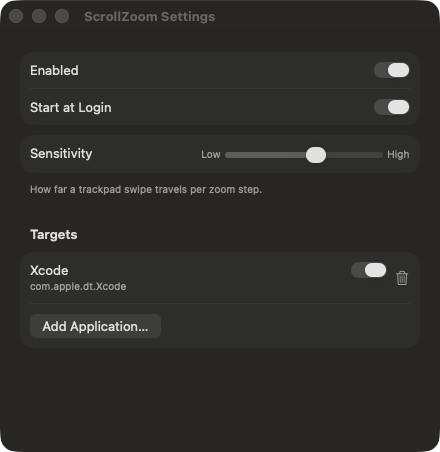
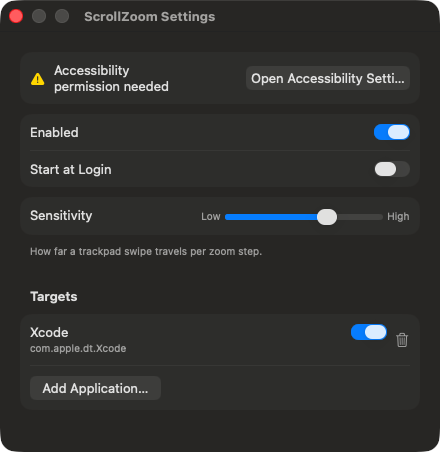
feat: route standard shortcuts and confirm destructive target removal

diff --git a/Sources/Preferences/SettingsView.swift b/Sources/Preferences/SettingsView.swift
@@ -5,6 +5,7 @@ import SwiftUI
 /// store the rest of the app already observes.
 struct SettingsView: View {
     @ObservedObject var model: SettingsViewModel
+    @State private var targetPendingRemoval: SettingsViewModel.Target?
 
     var body: some View {
         Form {
@@ -64,7 +65,7 @@ struct SettingsView: View {
                         }
                         Spacer()
                         Button(role: .destructive) {
-                            model.removeTarget(target)
+                            targetPendingRemoval = target
                         } label: {
                             Image(systemName: "trash")
                         }
@@ -73,6 +74,18 @@ struct SettingsView: View {
                                      comment: "Remove target tooltip"))
                     }
                 }
+
+                if model.targets.isEmpty {
+                    VStack(alignment: .leading, spacing: 2) {
+                        Text(String(localized: "No target apps",
+                                    comment: "Empty state title in the targets list"))
+                        Text(String(localized: "ScrollZoom stays idle until you add one.",
+                                    comment: "Empty state body in the targets list"))
+                            .font(.footnote)
+                            .foregroundStyle(.secondary)
+                    }
+                }
+
                 Button(String(localized: "Add Application…", comment: "Add target button")) {
                     model.presentAddTargetPanel()
                 }
@@ -88,6 +101,30 @@ struct SettingsView: View {
             }
         } message: {
             Text(model.lastErrorMessage ?? "")
+        }
+        .confirmationDialog(
+            targetPendingRemoval.map {
+                String(format: String(localized: "Remove %@ from the target list?",
+                                      comment: "Confirmation title when removing a target"),
+                       $0.displayName)
+            } ?? "",
+            isPresented: Binding(get: { targetPendingRemoval != nil },
+                                 set: { if !$0 { targetPendingRemoval = nil } }),
+            titleVisibility: .visible
+        ) {
+            Button(String(localized: "Remove", comment: "Destructive confirm button"),
+                   role: .destructive) {
+                if let target = targetPendingRemoval {
+                    model.removeTarget(target)
+                }
+                targetPendingRemoval = nil
+            }
+            Button(String(localized: "Cancel", comment: "Cancel button"), role: .cancel) {
+                targetPendingRemoval = nil
+            }
+        } message: {
+            Text(String(localized: "⌘ + scroll will stop zooming in that app. You can add it back at any time.",
+                        comment: "Confirmation body when removing a target"))
         }
     }
 }

diff --git a/Sources/UI/SZMainMenu.m b/Sources/UI/SZMainMenu.m
@@ -1,0 +1,50 @@
+#import "SZMainMenu.h"
+
+#import "SZStrings.h"
+
+@implementation SZMainMenu
+
++ (void)installWithSettingsAction:(SEL)settingsAction target:(id)target {
+    NSMenu *mainMenu = [[NSMenu alloc] init];
+
+    NSMenuItem *appItem = [[NSMenuItem alloc] init];
+    appItem.submenu = [self buildAppMenuWithSettingsAction:settingsAction target:target];
+    [mainMenu addItem:appItem];
+
+    NSMenuItem *windowItem = [[NSMenuItem alloc] init];
+    windowItem.submenu = [self buildWindowMenu];
+    [mainMenu addItem:windowItem];
+
+    NSApp.mainMenu = mainMenu;
+}
+
++ (NSMenu *)buildAppMenuWithSettingsAction:(SEL)settingsAction target:(id)target {
+    NSMenu *menu = [[NSMenu alloc] initWithTitle:SZLocalizedAppName()];
+
+    NSMenuItem *settingsItem = [[NSMenuItem alloc] initWithTitle:SZLocalizedMenuSettings()
+                                                          action:settingsAction
+                                                   keyEquivalent:@","];
+    settingsItem.target = target;
+    [menu addItem:settingsItem];
+
+    [menu addItem:[NSMenuItem separatorItem]];
+
+    NSMenuItem *quitItem = [[NSMenuItem alloc] initWithTitle:SZLocalizedMenuQuit()
+                                                      action:@selector(terminate:)
+                                               keyEquivalent:@"q"];
+    quitItem.target = NSApp;
+    [menu addItem:quitItem];
+
+    return menu;
+}
+
++ (NSMenu *)buildWindowMenu {
+    NSMenu *menu = [[NSMenu alloc] initWithTitle:SZLocalizedMenuWindow()];
+    // Target stays nil: ⌘W travels the responder chain to the key window.
+    [menu addItemWithTitle:SZLocalizedMenuClose()
+                    action:@selector(performClose:)
+             keyEquivalent:@"w"];
+    return menu;
+}
+
+@end

diff --git a/Sources/UI/SZMainMenu.h b/Sources/UI/SZMainMenu.h
@@ -1,0 +1,15 @@
+#import <Cocoa/Cocoa.h>
+
+NS_ASSUME_NONNULL_BEGIN
+
+/// An agent app has no main menu, so standard key equivalents (⌘, for
+/// Settings, ⌘W to close a window, ⌘Q to quit) never reach anything. This
+/// installs a minimal, never-displayed main menu purely to route them.
+@interface SZMainMenu : NSObject
+
+/// Installs the menu on NSApp. `openSettingsHandler` runs on ⌘,.
++ (void)installWithSettingsAction:(SEL)settingsAction target:(id)target;
+
+@end
+
+NS_ASSUME_NONNULL_END

diff --git a/Sources/UI/SZStrings.h b/Sources/UI/SZStrings.h
@@ -47,6 +47,14 @@ static inline NSString *SZLocalizedMenuSettings(void) {
     return NSLocalizedString(@"Settings…", @"Opens the Settings window");
 }
 
+static inline NSString *SZLocalizedMenuWindow(void) {
+    return NSLocalizedString(@"Window", @"Standard Window menu title");
+}
+
+static inline NSString *SZLocalizedMenuClose(void) {
+    return NSLocalizedString(@"Close", @"Standard Close item (⌘W)");
+}
+
 static inline NSString *SZLocalizedMenuOpenAccessibilitySettings(void) {
     return NSLocalizedString(@"Open Accessibility Settings…",
                              @"Deep link to the Accessibility privacy pane");
@@ -108,6 +116,9 @@ static inline NSString *SZLocalizedHUDAccessibilityLabel(void) {
 }
 
 #pragma mark - Settings window
+
+// The Settings window is SwiftUI and localizes its own copy via
+// String(localized:); only strings the ObjC side formats live here.
 
 static inline NSString *SZLocalizedSettingsNoBundleIdentifierFormat(void) {
     return NSLocalizedString(@"“%@” has no bundle identifier, so it cannot be targeted.",

diff --git a/Sources/App/SZAppDelegate.m b/Sources/App/SZAppDelegate.m
@@ -5,6 +5,7 @@
 #import "SZAccessibility.h"
 #import "SZHotKey.h"
 #import "SZLoginItem.h"
+#import "SZMainMenu.h"
 #import "SZMenuController.h"
 #import "SZPermissionGate.h"
 #import "SZPreferences.h"
@@ -76,6 +77,9 @@ static const NSTimeInterval SZTrustWatchInterval = 5.0;
     };
     [self.menuController install];
 
+    // Agent apps have no main menu, so ⌘, / ⌘W / ⌘Q would go nowhere.
+    [SZMainMenu installWithSettingsAction:@selector(showSettingsWindow:) target:self];
+
     // ⌃⌥⌘Z pauses/resumes globally — the escape hatch if a gesture ever
     // misbehaves inside a full-screen app.
     self.toggleHotKey = [[SZHotKey alloc] initWithKeyCode:kVK_ANSI_Z
@@ -88,6 +92,10 @@ static const NSTimeInterval SZTrustWatchInterval = 5.0;
     [self.permissionGate runWithGrantedHandler:^{
         [weakSelf armEventPipeline];
     }];
+}
+
+- (void)showSettingsWindow:(id)sender {
+    [self.settingsPresenter show];
 }
 
 - (void)toggleEnabledFromHotKey {

diff --git a/Sources/UI/SZMenuController.m b/Sources/UI/SZMenuController.m
@@ -82,11 +82,10 @@ static const double SZSensitivityHighThreshold = 8.0;
     self.loginItem.target = self;
     [menu addItem:self.loginItem];
 
-    // No ⌘, key equivalent yet: status-item menus only match shortcuts while
-    // open, and the agent has no main menu to route them — lands separately.
+    // ⌘, is routed by SZMainMenu; shown here so the shortcut is discoverable.
     NSMenuItem *settingsWindowItem = [[NSMenuItem alloc] initWithTitle:SZLocalizedMenuSettings()
                                                                 action:@selector(openSettingsWindow:)
-                                                         keyEquivalent:@""];
+                                                         keyEquivalent:@","];
     settingsWindowItem.target = self;
     [menu addItem:settingsWindowItem];
 